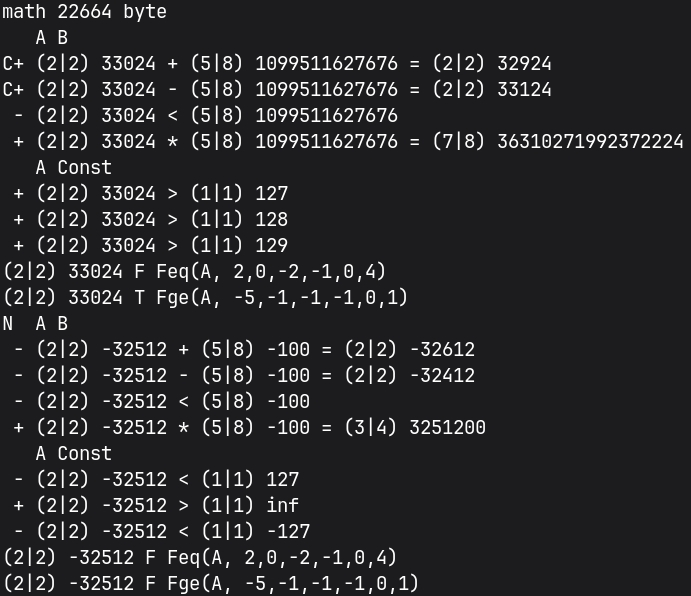
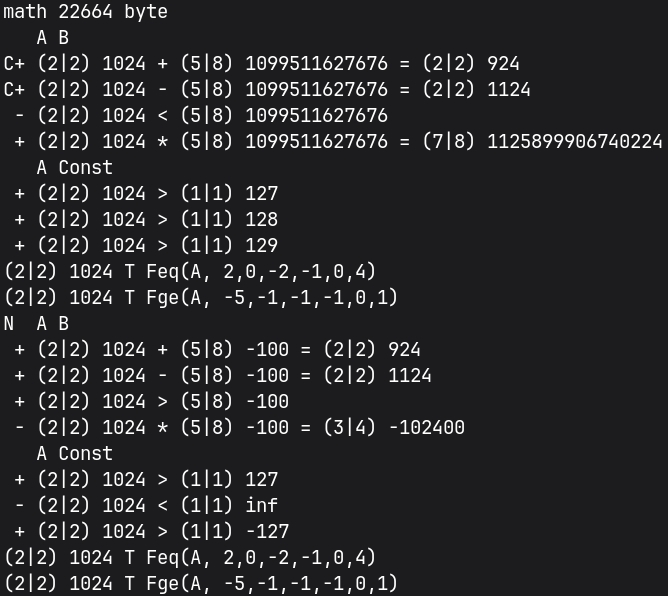
v50.2

diff --git a/math.c b/math.c
@@ -7,7 +7,7 @@
 
 #include "math.h"
 
-MATH_CACHE_INIT
+MCINIT
 void FAddr(anu y, As* r, anu c, As* a) { c = (c > y) ? y:c; while(c--) *r++ = *a++; }
 void FInit(anu x, anu y, an r, anu c, an a) { while(x--) *--r = 0;
   c = (c > y) ? y:c; while(c--) *r++ = *a++; }
@@ -31,6 +31,30 @@ anu FOLD(anu f, an r, anu l, an a) { Mat.y = FMOV(r, l, a); Mat.t = ((Mat.x = Ma
   *Mat.ae = Mat.na ? Mat.y:*Mat.ae; if (f) { Fswap(Mat.t, Mat.r); } return Mat.t; }
 anu FVAR(anu f, an r, anu l, an c) { if (l--) { if (f) { FSWAP(r, l, c); return Fmov(l, r); }
     else return FMOV(r, l, c); } return Fvle(r, 0); }
+
+void FCMP(an a, anu l, an b) { Mat.i = Mat.l; Mat.j = l; Mat.a = a; Mat.b = b; Mat.r = Mat.b;
+  Mat.x = ((*(Mat.ae = Mat.a + Mat.i) & 128) && Mat.Nim) ? 255:0; Mat.lb = Mat.j;
+  Mat.CN = ((*(Mat.be = Mat.b + Mat.j) & 128) && Mat.Nim) ? 255:0; Mat.CF = 0;
+  while(*Mat.ae-- == Mat.x && Mat.i && !((*Mat.ae ^ Mat.x) & 128)) { Mat.i--; } Mat.ae++;
+  while(*Mat.be-- == Mat.CN && Mat.j && !((*Mat.be ^ Mat.CN) & 128)) { Mat.j--; } Mat.be++;
+  if (Mat.Nim) if ((Mat.l == Mat.i && *Mat.ae == 128) || (Mat.lb == Mat.j && *Mat.be == 128)) {
+      Mat.k = Mat.i; while(Mat.k-- && !*Mat.a) { Mat.a++; } Mat.t = Mat.j;
+      while(Mat.t-- && !*Mat.r) { Mat.r++; } Mat.t++; if (!++Mat.k && *Mat.a == 128) {
+          if (!Mat.t && *Mat.r == 128) { Mat.CF++; Mat.CN = 0; } return; }
+      if (!Mat.t && *Mat.r == 128) { Mat.CN = ~Mat.x; return; } }
+  if (!(Mat.x ^ Mat.CN) && Mat.i == Mat.j) { while(*Mat.ae-- == *Mat.be-- && Mat.i--) { }
+    if (!++Mat.i) { Mat.CF++; Mat.CN = 0; } else { Mat.CN = !(*++Mat.be < *++Mat.ae); } return; }
+  if (Mat.x ^ Mat.CN) Mat.CN = ~Mat.CN;
+  else { Mat.CN = Mat.x ? (Mat.j < Mat.i):(Mat.i < Mat.j); } }
+anu FGE(an a, anu l, an c) { if (l--) { Mat.e = c; Mat.y = 0;
+    while(!Mat.y && l >= Mat.l) { FCMP(a, Mat.l, Mat.e); Mat.y = !Mat.CN; Mat.e += 1 + Mat.l;
+      l -= Mat.l; if (!l--) { break; } FCMP(a, Mat.l, Mat.e); Mat.y = Mat.y && (Mat.CN | Mat.CF);
+      Mat.e += 1 + Mat.l; l -= Mat.l; if (!l--) break; } return Mat.y; }
+  FCMP(a, Mat.lb, Mat.B); return !Mat.CN; }
+anu FEQ(an a, anu l, an c) { if (l--) { Mat.e = c; Mat.CF = 0;
+    while(!Mat.CF && l >= Mat.l) { FCMP(a, Mat.l, Mat.e); Mat.e += 1 + Mat.l; l -= Mat.l;
+      if (!l--) break; } return Mat.CF; } FCMP(a, Mat.lb, Mat.B); return Mat.CF; }
+void FTST(an a, anu l, an c) { if (l--) return FCMP(a, l, c); return FCMP(a, Mat.lb, Mat.B); }
 
 void FADD(an r, an a, anu l, an b) { Mat.N = l; Mat.r = r; Mat.a = a; Mat.b = b; Mat.lb = Mat.N;
   Mat.ae = Mat.a + Mat.l; Mat.na = (((Mat.x = *Mat.ae--) & 128) && Mat.Nim) ? 255:0; Mat.F = Mat.l;
@@ -146,26 +170,3 @@ void FCADD(an r, an a, anu l, an c) { if (l--) return FADD(r, a, l, c); return F
 void FCSUB(an r, an a, anu l, an c) { if (l--) return FSUB(r, a, l, c); return FSUB(r, a, Mat.lb, Mat.B); }
 void FCMUL(an r, an a, anu l, an c) { if (l--) return FMUL(r, a, l, c); return FMUL(r, a, Mat.lb, Mat.B); }
 void FCDIV(an r, an e, an a, anu l, an c) { if (l--) return FDIV(r, e, a, l, c); return FDIV(r, e, a, Mat.lb, Mat.B); }
-
-void FCMP(an a, anu l, an b) { Mat.i = Mat.l; Mat.j = l; Mat.a = a; Mat.b = b; Mat.r = Mat.b;
-  Mat.x = ((*(Mat.ae = Mat.a + Mat.i) & 128) && Mat.Nim) ? 255:0; Mat.lb = Mat.j;
-  Mat.CN = ((*(Mat.be = Mat.b + Mat.j) & 128) && Mat.Nim) ? 255:0; Mat.CF = 0;
-  while(*Mat.ae-- == Mat.x && Mat.i && !((*Mat.ae ^ Mat.x) & 128)) { Mat.i--; } Mat.ae++;
-  while(*Mat.be-- == Mat.CN && Mat.j && !((*Mat.be ^ Mat.CN) & 128)) { Mat.j--; } Mat.be++;
-  if (Mat.Nim) if ((Mat.l == Mat.i && *Mat.ae == 128) || (Mat.lb == Mat.j && *Mat.be == 128)) {
-      Mat.k = Mat.i; while(Mat.k-- && !*Mat.a) { Mat.a++; } Mat.t = Mat.j;
-      while(Mat.t-- && !*Mat.r) { Mat.r++; } Mat.t++; if (!++Mat.k && *Mat.a == 128) {
-          if (!Mat.t && *Mat.r == 128) { Mat.CF++; Mat.CN = 0; } return; }
-      if (!Mat.t && *Mat.r == 128) { Mat.CN = ~Mat.x; return; } }
-  if (!(Mat.x ^ Mat.CN) && Mat.i == Mat.j) { while(*Mat.ae-- == *Mat.be-- && Mat.i--) { }
-    if (!++Mat.i) { Mat.CF++; Mat.CN = 0; } else { Mat.CN = !(*++Mat.be < *++Mat.ae); } return; }
-  if (Mat.x ^ Mat.CN) Mat.CN = ~Mat.CN; else { Mat.CN = Mat.j < Mat.i; Mat.CN = Mat.x ? Mat.CN:!Mat.CN; } }
-
-void FTST(an a, anu l, an c) { if (l--) return FCMP(a, l, c); return FCMP(a, Mat.lb, Mat.B); }
-anu FEQ(an a, anu l, an c) { if (l--) { Mat.e = c; Mat.CF = 0;
-    while(!Mat.CF && l >= Mat.l) { FCMP(a, Mat.l, Mat.e); Mat.e += 1 + Mat.l; l -= Mat.l;
-      if (!l--) break; } return Mat.CF; } FCMP(a, Mat.lb, Mat.B); return Mat.CF; }
-anu FGE(an a, anu l, an c) { if (l--) { Mat.e = c; Mat.y = 0;
-    while(!Mat.y && l >= Mat.l) { FCMP(a, Mat.l, Mat.e); Mat.y = !Mat.CN; Mat.e += 1 + Mat.l;
-      l -= Mat.l; if (!l--) { break; } FCMP(a, Mat.l, Mat.e); Mat.y = Mat.y && (Mat.CN | Mat.CF);
-      Mat.e += 1 + Mat.l; l -= Mat.l; if (!l--) break; } return Mat.y; } FCMP(a, Mat.lb, Mat.B); return !Mat.CN; }

diff --git a/main.c b/main.c
@@ -35,5 +35,5 @@ void Test(void) { an sb = Mat.B; anu l = lb, i = 2; printf("%c%c A B\n", Mat.Nim
   Num(la, Mat.A); Mat.C = 0; printf("%c Feq(A, 2,0,-2,-1,0,4)\n", Feq(Mat.A, 2,0,-2,-1,0,4) ? 'T':'F');
   Num(la, Mat.A); printf("%c Fge(A, -5,-1,-1,-1,0,1)\n", Fge(Mat.A, -5,-1,-1,-1,0,1) ? 'T':'F');}
 
-int main(void) { anu a[m],b[m],e[m],r[m+m]; Faddr((As)b, (As)a, (As)r, (As)e); Fini(NoSign,MatV); la = Fvbe(Mat.A, 129,0);
+int main(void) { anu a[m],b[m],e[m],r[m+m]; Faddr((As)b, (As)a, (As)r, (As)e); Fini(NoSign,MatV); la = Fvbe(Mat.A, 4,0);
   lb = Fvle(Mat.B, -100,255,255,255,255); Test(); Fset(Sign,MatV); la = Fmov(la, Mat.A); lb = Fmov(lb, Mat.B); Test(); return 0; }

diff --git a/README.md b/README.md
@@ -23,7 +23,7 @@
 P.s.: Блокировку убрали как только добавил сообщение о ней на главную страницу, длилась минут 20, как я заметил, и принял меры, чтобы сообщить об этом Вам. Это сообщение останется (20.09.2026 ~16.00 +7 UTF) как память, так что буду стараться вопреки невостребованности в России по данной области дабы остальной народ мог этим воспользоваться. Проанализируйте события с момента, как я вернулся в эту сферу (конец января 2026 выложен Products, готовый полностью, затем занялся Fresh в начале февраля 2026), всё это время обновлялся код и было забавно видеть на open.net новости - даже компании серьёзные - их как озарило - так что у меня нет желания и времени следить за соблюдением GPLv3 из России, если заметите нарушение лицензии, то гарантируется взаимовыгодное сотрудничество.
 
 <div align="center">
-  <h1>Результат запуска v50.1</h1>
+  <h1>Результат запуска v50.2</h1>
   
   <picture>
     <source media="(prefers-color-scheme: dark)" srcset="Plus/psb.jpeg">
